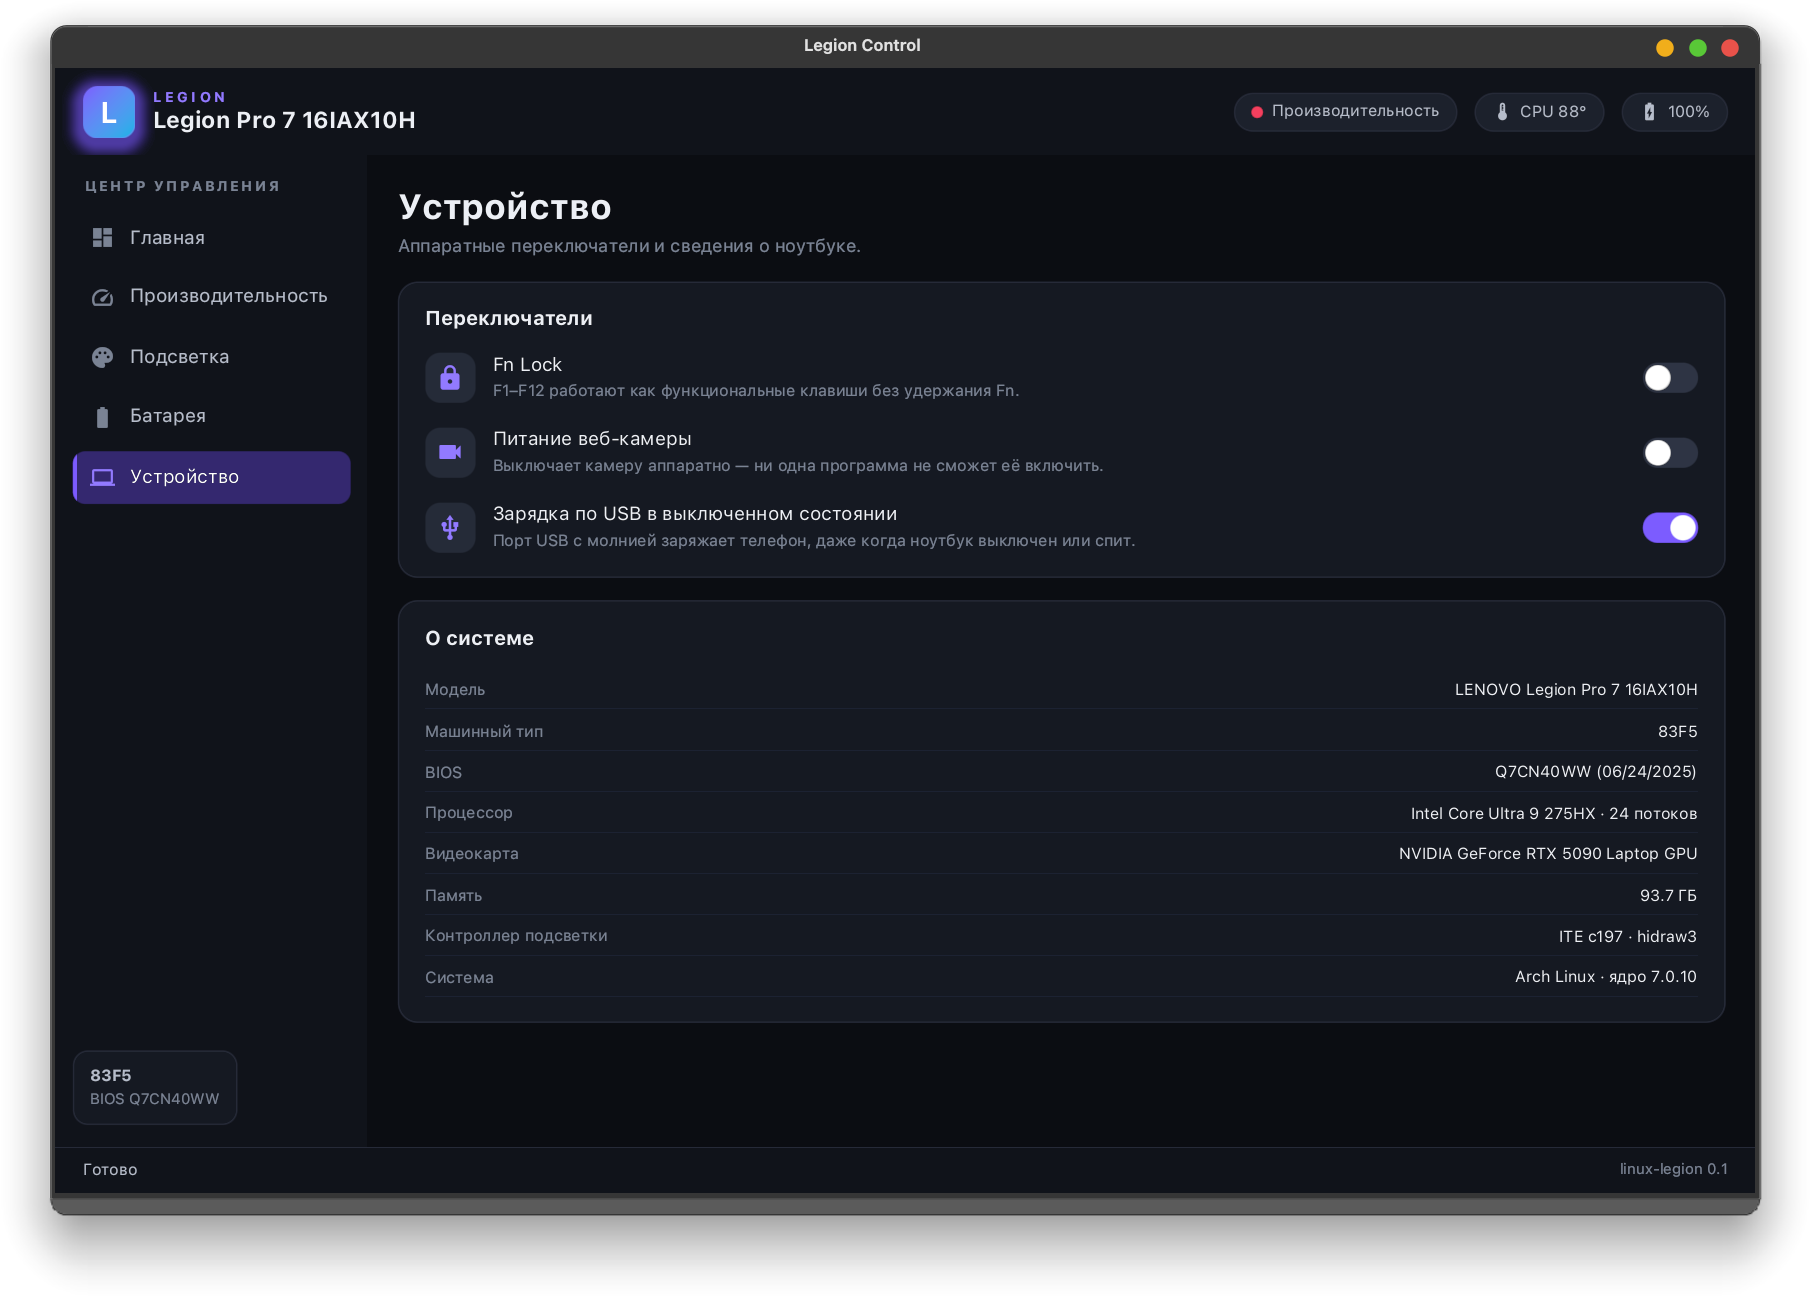
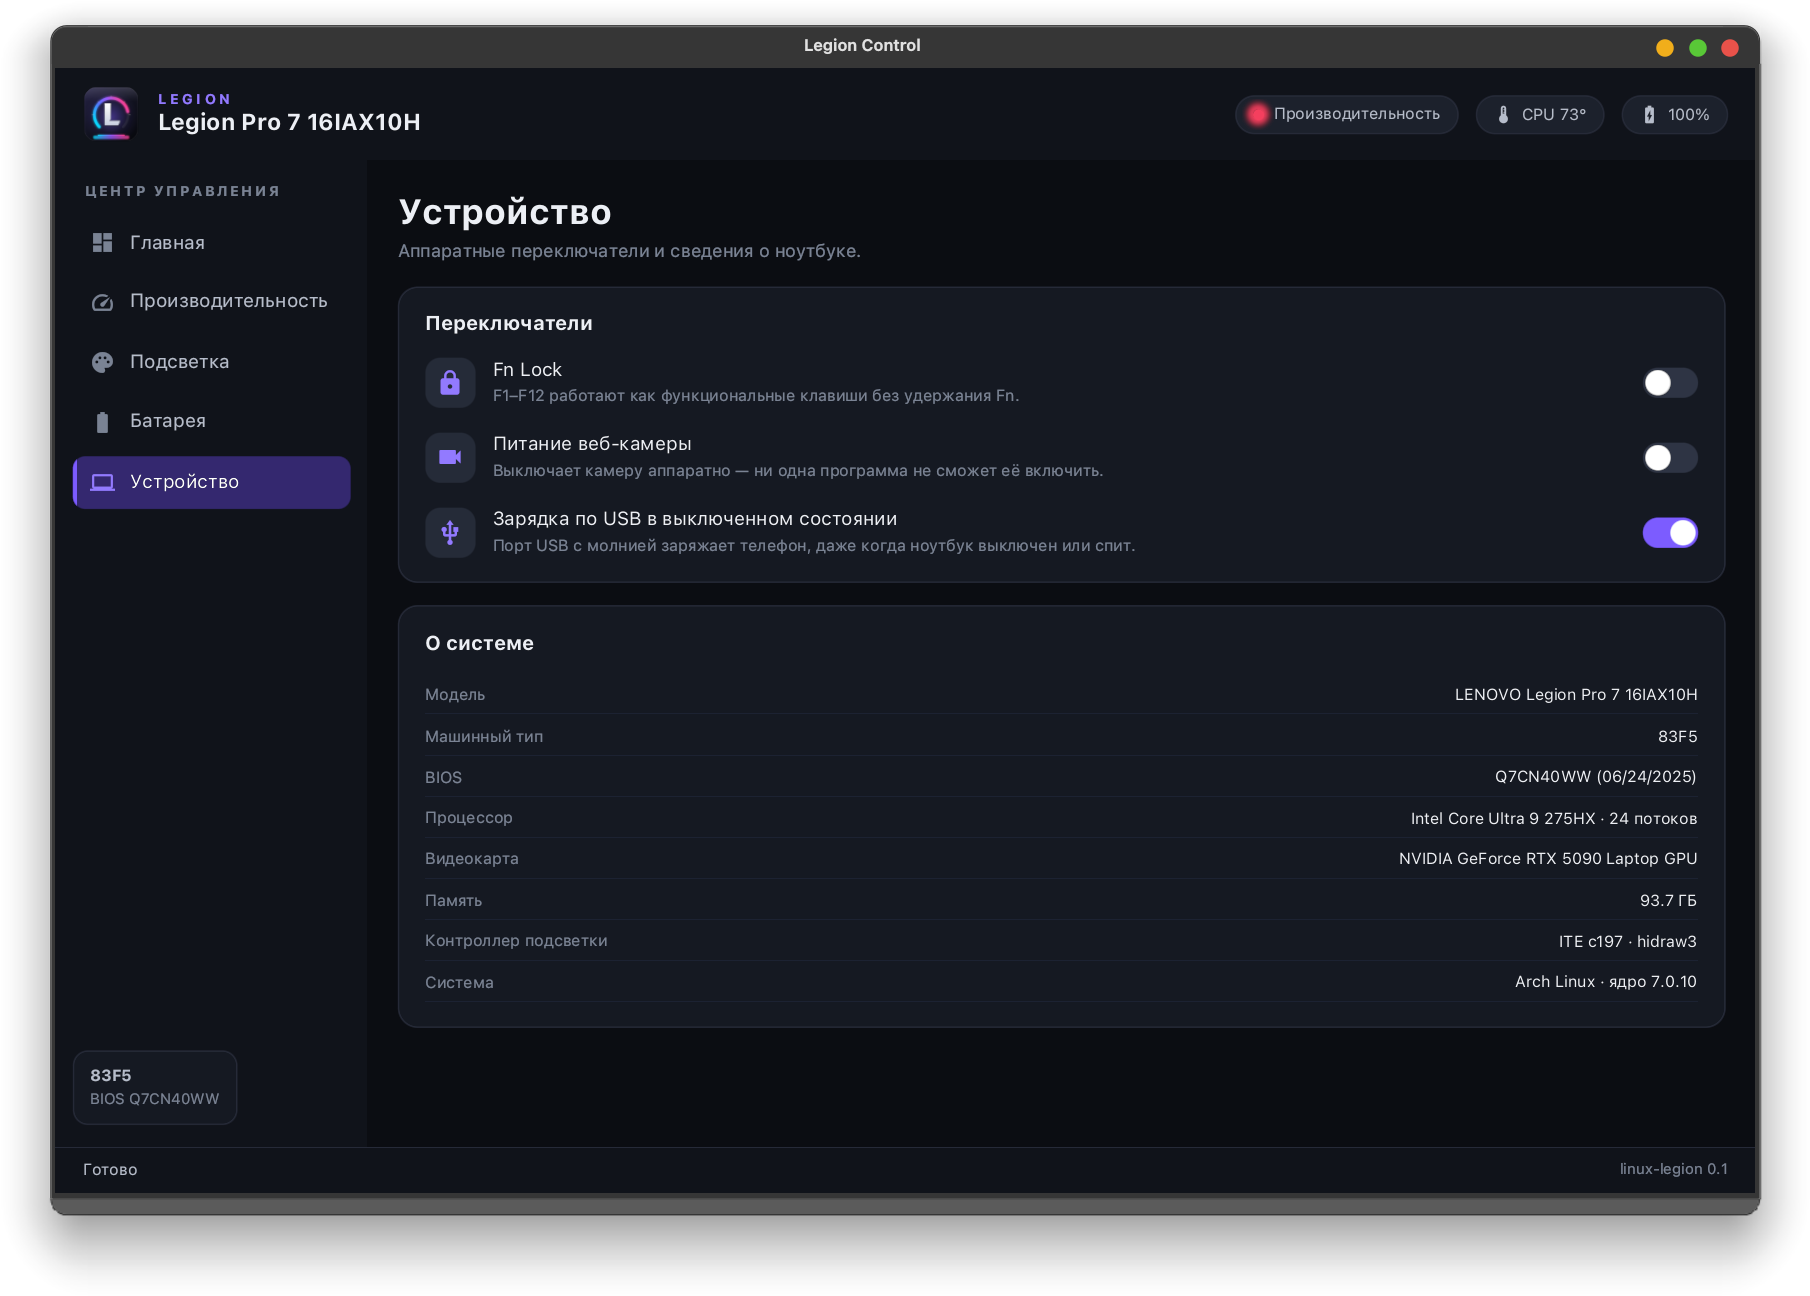
Новая иконка (RGB-шкала, угловатая L, световая полоса) — в шапке окна и в пакете; свежие скриншоты для README; установка через makepkg

diff --git a/src/ui/app.rs b/src/ui/app.rs
@@ -14,6 +14,8 @@ use std::sync::{Arc, Mutex};
 use syngui::prelude::*;
 use syngui::widgets::GestureDetector;
 
+const BRAND_PNG: &[u8] = include_bytes!("../../assets/icon/linux-legion-128.png");
+
 /// Разделы навигации.
 pub const PAGES: [(&str, &str); 5] = [
     ("Главная", icons::DASHBOARD),
@@ -154,11 +156,7 @@ fn header(ctx: AppCtx) -> impl Widget {
     Row::new()
         .gap(14.0)
         .cross_axis_alignment(CrossAxisAlignment::Center)
-        .child(
-            DecoratedBox::new()
-                .child(Center::new().child(Text::new("L").class("brand-mark")))
-                .class("brand-badge"),
-        )
+        .child(Image::from_bytes("brand-icon", BRAND_PNG.to_vec()).fit(ImageFit::Contain).class("brand-icon"))
         .child(
             Column::new()
                 .gap(1.0)

diff --git a/README.md b/README.md
@@ -8,11 +8,17 @@ Written in Rust on [syngui](https://github.com/VitaminDB/syngui). Uses the upstr
 (`lenovo-wmi-gamezone`, `lenovo-wmi-other`, `ideapad-laptop`) and talks to the RGB controller
 directly through `hidraw` — no out-of-tree kernel module, no daemon, no root at runtime.
 
-![Lighting](screenshots/lighting.png)
+<p align="center"><img src="assets/icon/linux-legion-128.png" width="96" alt="icon"></p>
 
-| Home | Performance | Battery |
+![Home](screenshots/home.png)
+
+| Spectrum lighting — live map | Effect layers |
+|---|---|
+| ![Lighting](screenshots/lighting.png) | ![Layers](screenshots/lighting-layers.png) |
+
+| Performance | Battery | Device |
 |---|---|---|
-| ![Home](screenshots/home.png) | ![Performance](screenshots/performance.png) | ![Battery](screenshots/battery.png) |
+| ![Performance](screenshots/performance.png) | ![Battery](screenshots/battery.png) | ![Device](screenshots/device.png) |
 
 > The interface is in Russian for now.
 
@@ -39,6 +45,16 @@ Other Legion models with the same kernel interfaces and a Spectrum controller (`
 firmware reports. `linux_legion --simulate` shows the whole UI without the hardware.
 
 ## Install
+
+### Arch Linux
+
+```bash
+git clone https://github.com/VitaminDB/linux-legion
+cd linux-legion/packaging/aur/linux-legion
+makepkg -si
+```
+
+The package installs `/usr/bin/linux-legion`, a menu entry, icons and the udev rule.
 
 ### From source
 
